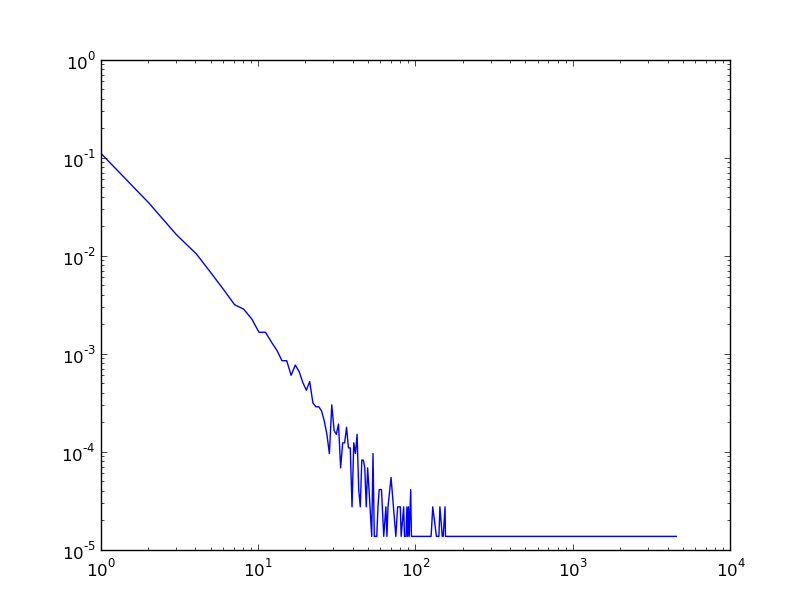
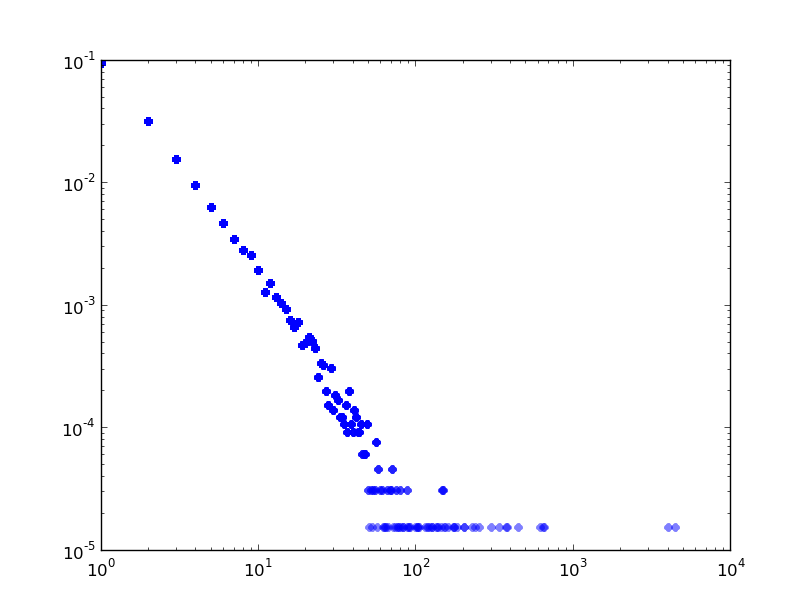
Complete

diff --git a/hw1/wordFrequency.py b/hw1/wordFrequency.py
@@ -46,7 +46,7 @@ def getProportion(mylist):
 
 
 def plotLogLog(mydict):
-	freqList = sorted(mydict.values())
+	freqList = mydict.values()
 
 	sumFreq = sum(freqList)
 
@@ -61,7 +61,19 @@ def plotLogLog(mydict):
 		y.append(freqCount[freq]/float(sumFreq))
 
 
-	plt.loglog(x,y)
+	#plt.loglog(x,y)
+	#plt.plot(x,y, color='blue', lw=2)
+
+
+	fig = plt.figure()
+	ax = plt.gca()
+	#ax.scatter(x ,y , c='blue', alpha=0.05, edgecolors='none')
+	#fig = plt.figure()
+	ax.plot(x ,y, 'o', c='blue', alpha=0.5, markeredgecolor='none')
+
+
+	ax.set_yscale('log')
+	ax.set_xscale('log')
 	plt.show()
 
 def countWordFrequency(tokenList):
@@ -81,6 +93,7 @@ def plusOne(mydict,key):
 
 blogText = readText("blog.txt")
 blogToken = nltk.word_tokenize(blogText)
+blogToken = [token.lower() for token in blogToken]
 blogTag = nltk.pos_tag(blogToken)
 #blogToken = removeNonAlphaNumeric(blogToken)
 blogFreq = countWordFrequency(blogToken)
@@ -123,7 +136,7 @@ for item in blogTag:
 		n_adj += 1
 		plusOne(adj_dict,item[0])
 
-	elif item[1] == "IN":
+	elif item[1] == "RB":
 		n_adv += 1
 		plusOne(adv_dict,item[0])
 
@@ -193,10 +206,11 @@ n_capital = 0
 total_char = 0
 speechText = readText("congress_speech.txt")
 speechToken = nltk.word_tokenize(speechText)
+speechToken = [token.lower() for token in speechToken]
 speechTag = nltk.pos_tag(speechToken)
 #speechToken = removeNonAlphaNumeric(speechToken)
 speechFreq = countWordFrequency(speechToken)
-plotLogLog(blogFreq)
+plotLogLog(speechFreq)
 
 
 print "vocabulary size: ",len(speechFreq.keys())
@@ -216,24 +230,12 @@ n_adv = 0
 n_adj = 0
 n_verb = 0
 n_pron = 0
-for item in speechTag:
-	if item[1] == "NN":
-		n_noun += 1
-	elif item[1] == "JJ":
-		n_adj += 1
-	elif item[1] == "IN":
-		n_adv += 1
-	elif item[1] == "PRP":
-		n_pron += 1
-	elif item[1].startswith("VB"):
-		n_verb += 1
-
 noun_dict = dict()
 adv_dict = dict()
 adj_dict = dict()
 verb_dict = dict()
 pron_dict = dict()
-for item in blogTag:
+for item in speechTag:
 	if item[1] == "NN":
 		n_noun += 1
 		plusOne(noun_dict,item[0])
@@ -242,7 +244,7 @@ for item in blogTag:
 		n_adj += 1
 		plusOne(adj_dict,item[0])
 
-	elif item[1] == "IN":
+	elif item[1] == "RB":
 		n_adv += 1
 		plusOne(adv_dict,item[0])
 
